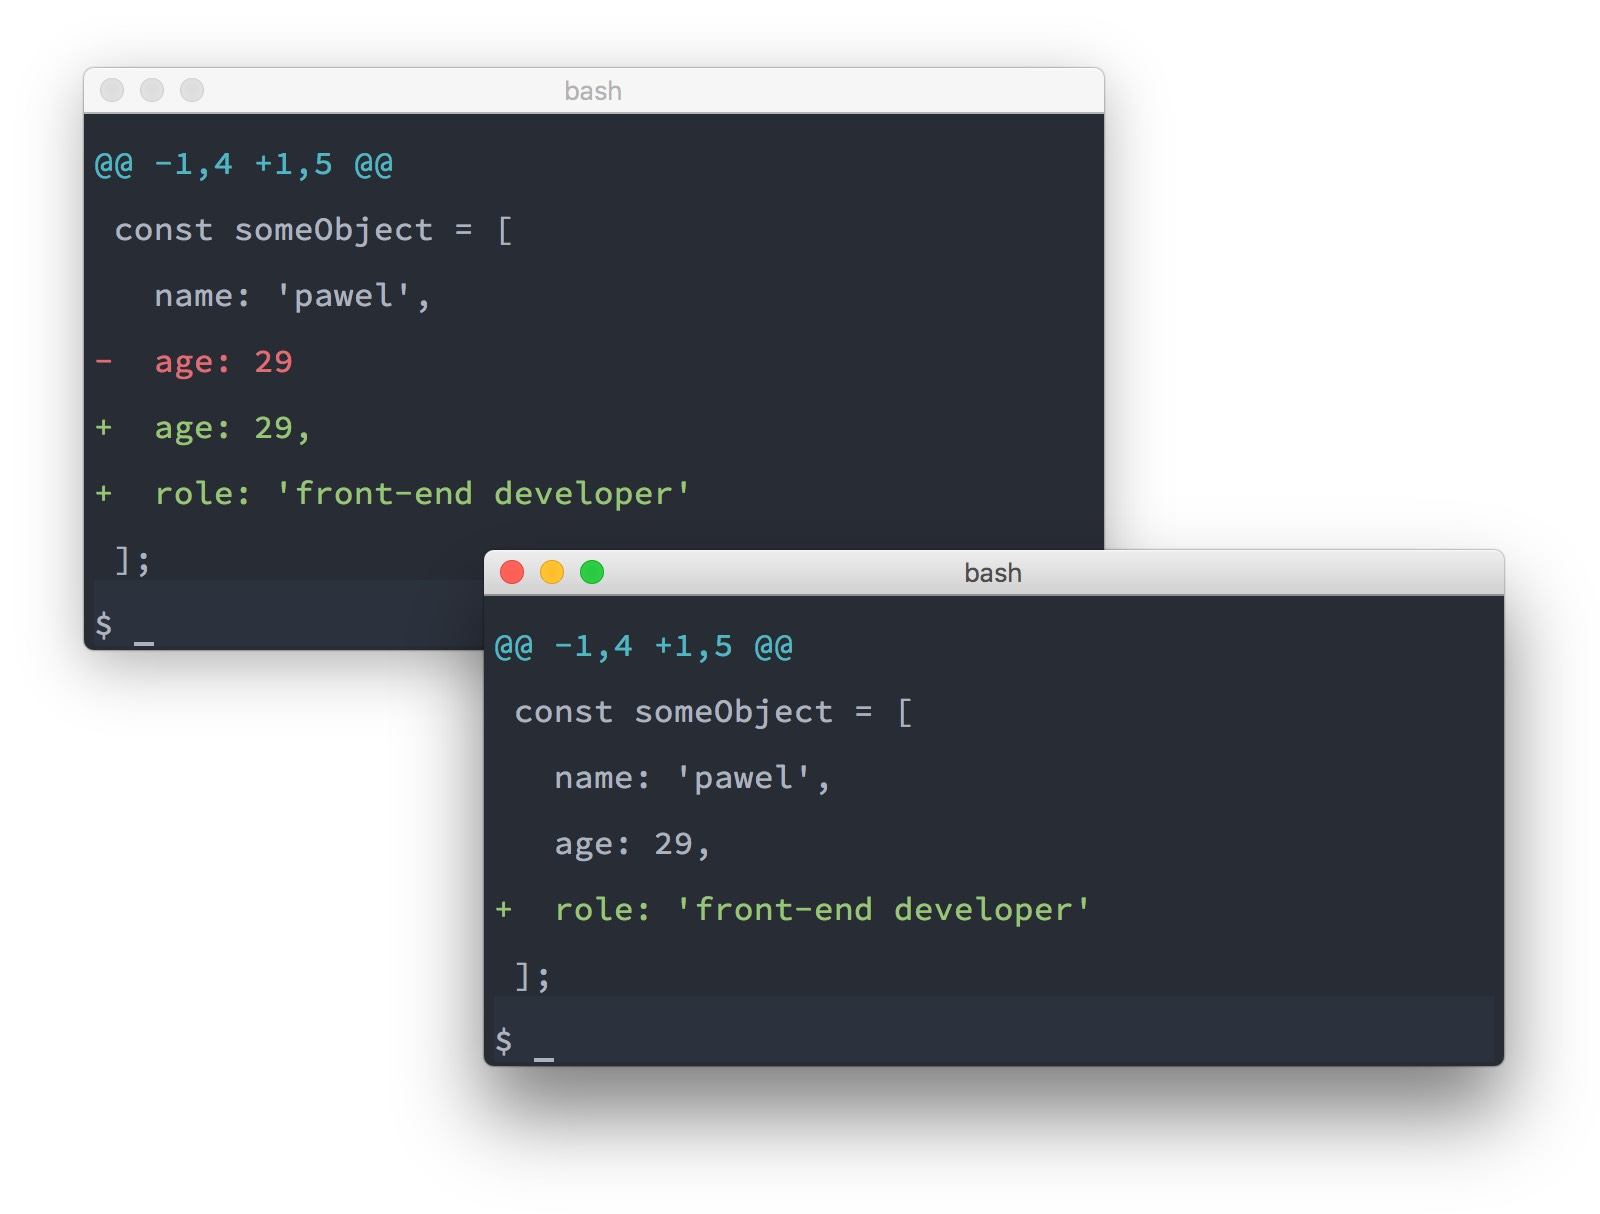
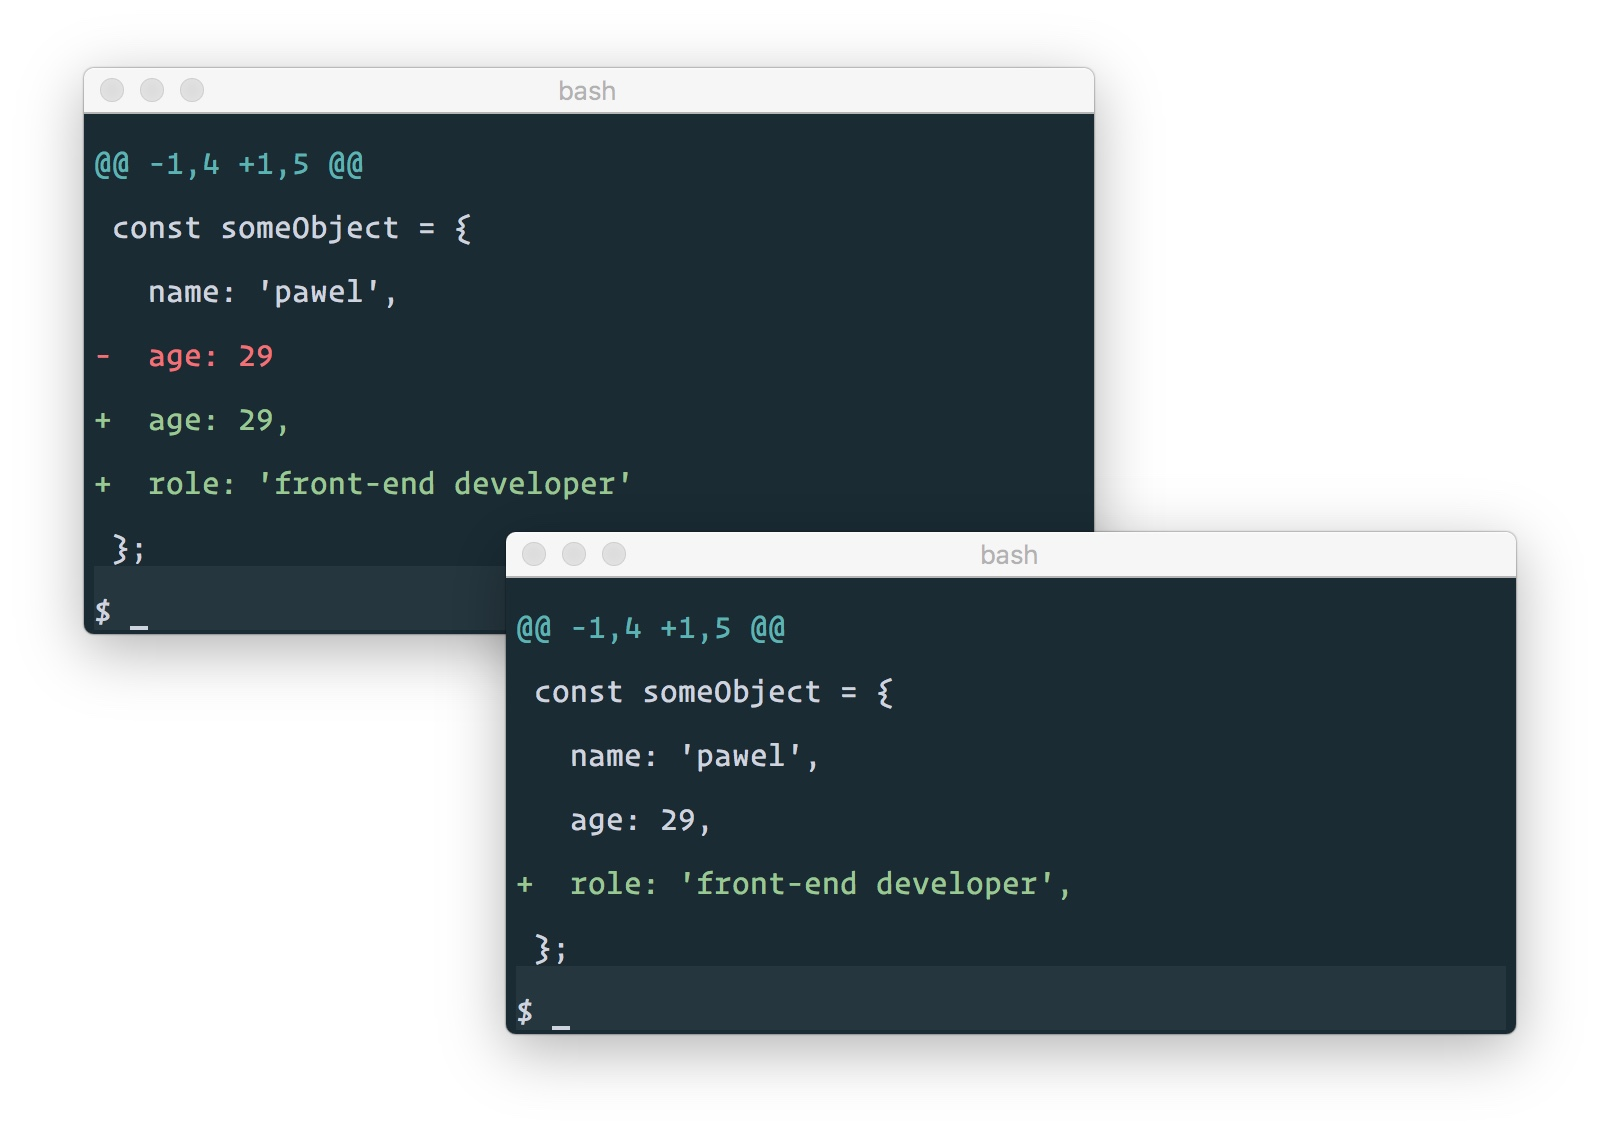
republish corrected photos

Changed region(s): [[0.0312, 0.0617, 0.9688, 0.9259], [0.4375, 0.7407, 0.6562, 0.8025]]

diff --git a/_posts/2016-09-28-trailing-comma-in-ecmascript2017-function-parameter-list.md b/_posts/2016-09-28-trailing-comma-in-ecmascript2017-function-parameter-list.md
@@ -76,11 +76,9 @@ The new feature won't supercharge the output of your app whatsoever but can defi
 2. Easier code rearranging
 3. You can programmatically generate code without extra logic for the last item
 
-<!--
 ![Nicer diff of objet with trailing comma in iTerm](/photos/2016-09-28-1.jpg)
 
 ![Nicer diff of objet with trailing comma in Tower 2](/photos/2016-09-28-2.jpg)
- -->
 
 ## Babel to use, ESLint to check
 
